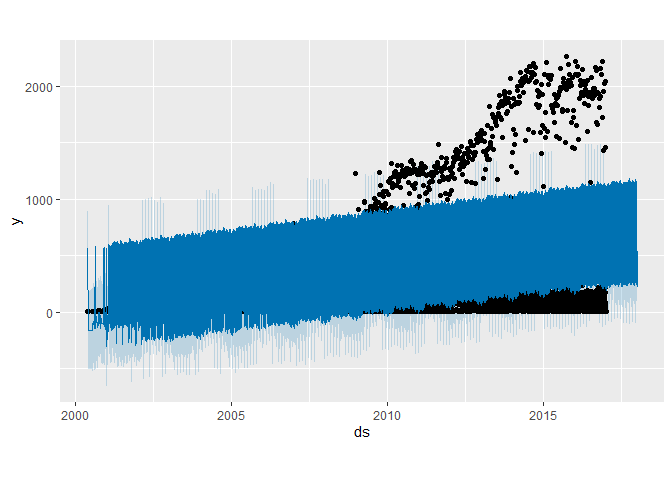
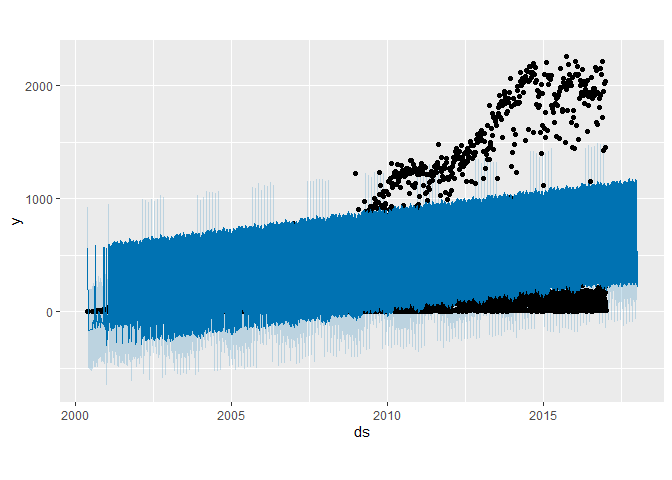
Update to summary stats

diff --git a/Assignments/Group Project/Group-Assignment.md b/Assignments/Group Project/Group-Assignment.md
@@ -22,7 +22,6 @@ First we need to load the basic packages for the manipulation of data.
 Other packages will be loaded as needed.
 
 ``` r
-#library(tidyverse)
 library(dplyr)
 ```
 
@@ -65,8 +64,17 @@ library(lubridate)
     ##     date, intersect, setdiff, union
 
 ``` r
-#library(tsibble)
 library(ggplot2)
+  
+#for first time use
+#install.packages('compareGroups')
+#install.packages('webr')
+#install.packages('prophet')
+#install.packages('survival')
+
+#archive
+#library(tsibble)
+#library(tidyverse)
 ```
 
 ### Load data
@@ -397,8 +405,6 @@ PD = T_Data %>%
     ## `.groups` argument.
 
 ``` r
-#install.packages('webr')
-
 library(webr)
 PieDonut(PD, aes(gender,race, count=n), title = "Patent Examiners by Race & Gender",r0 = 0.45, r1 = 0.9, addDonutLabel= TRUE )
 ```
@@ -500,12 +506,21 @@ are more applications in one year than another
 ``` r
 hists=ggplot(T_Data, aes(x=filing_year))+
   geom_histogram(bins = 30)+
-  facet_grid(T_Data$tc)+
-  ggtitle("Histogram of Application Length in Days.")
+  ggtitle("Histogram of Application filing year.")
 hists
 ```
 
-![](Group-Assignment_files/figure-gfm/histogram%20distribtion%20ethnicity%202-1.png)<!-- -->
+![](Group-Assignment_files/figure-gfm/histogram%20distribtion%20ethnicity%202-1-1.png)<!-- -->
+
+``` r
+hists=ggplot(T_Data, aes(x=filing_year))+
+  geom_histogram(bins = 30)+
+  facet_grid(T_Data$tc)+
+  ggtitle("Histogram of Application filing year.")
+hists
+```
+
+![](Group-Assignment_files/figure-gfm/histogram%20distribtion%20ethnicity%202-2-1.png)<!-- -->
 
 Similarly let’s look at the distribution of approval years
 
@@ -584,6 +599,8 @@ library(tidyverse)
     ## ✖ lubridate::union()       masks base::union()
 
 ``` r
+library(ggpubr)
+
 T_Data$race_gender=paste(T_Data$race,T_Data$gender)
 T_Data$race_gender=as.factor(T_Data$race_gender)
 
@@ -597,6 +614,13 @@ T_Data %>%
 
 ![](Group-Assignment_files/figure-gfm/Violin%20plots-1.png)<!-- -->
 
+``` r
+ggboxplot(T_Data, x= 'race_gender', y='Application_time',color='race_gender',xlab=FALSE,ylab="Application Time (in Days)")+
+  rotate_x_text(45)
+```
+
+![](Group-Assignment_files/figure-gfm/box%20plots-1.png)<!-- -->
+
 Based on the graphs we can see a similar pattern for application time,
 where all tcs have a steadliy decreasing application wait time. However,
 this is likely a right censoring problem as the applications that are
@@ -609,6 +633,50 @@ on the amount of time ofr a patent applcation.
 drop <- c("race_gender")
 T_Data = T_Data[,!(names(T_Data) %in% drop)]
 ```
+
+## Average Comparisons
+
+Let’s compare the averages between groups
+
+``` r
+t=t.test(Application_time ~ gender, data = T_Data, var.equal = FALSE)
+summary(t)
+```
+
+    ##             Length Class  Mode     
+    ## statistic   1      -none- numeric  
+    ## parameter   1      -none- numeric  
+    ## p.value     1      -none- numeric  
+    ## conf.int    2      -none- numeric  
+    ## estimate    2      -none- numeric  
+    ## null.value  1      -none- numeric  
+    ## stderr      1      -none- numeric  
+    ## alternative 1      -none- character
+    ## method      1      -none- character
+    ## data.name   1      -none- character
+
+``` r
+t=aov(Application_time ~ race, data = T_Data)
+summary(t)
+```
+
+    ##                  Df    Sum Sq  Mean Sq F value   Pr(>F)    
+    ## race              3 3.174e+07 10579703   10.86 3.98e-07 ***
+    ## Residuals   1363982 1.329e+12   974604                     
+    ## ---
+    ## Signif. codes:  0 '***' 0.001 '**' 0.01 '*' 0.05 '.' 0.1 ' ' 1
+
+``` r
+t=aov(Application_time ~ race+gender, data = T_Data)
+summary(t)
+```
+
+    ##                  Df    Sum Sq  Mean Sq F value   Pr(>F)    
+    ## race              3 3.174e+07 10579703  10.855 3.98e-07 ***
+    ## gender            1 1.810e+06  1809621   1.857    0.173    
+    ## Residuals   1363981 1.329e+12   974604                     
+    ## ---
+    ## Signif. codes:  0 '***' 0.001 '**' 0.01 '*' 0.05 '.' 0.1 ' ' 1
 
 ## PCA Analaysis
 
@@ -630,7 +698,6 @@ Let’s use the prophet package to predict the future of the filing number
 of applications
 
 ``` r
-#install.packages('prophet')
 library(prophet)
 ```
 
@@ -685,12 +752,12 @@ tail(forecast[c('ds', 'yhat', 'yhat_lower', 'yhat_upper')])
 ```
 
     ##                       ds      yhat yhat_lower yhat_upper
-    ## 5821 2017-12-26 19:00:00 1136.5869  817.74603  1473.2097
-    ## 5822 2017-12-27 19:00:00  443.6840   56.04380   813.0540
-    ## 5823 2017-12-28 19:00:00  455.3918   97.81820   807.5841
-    ## 5824 2017-12-29 19:00:00  274.3422  -88.26362   639.1719
-    ## 5825 2017-12-30 19:00:00  225.2376 -127.66719   586.9678
-    ## 5826 2017-12-31 19:00:00  533.0541  204.22284   876.7144
+    ## 5821 2017-12-26 19:00:00 1136.5869  785.78012  1467.6499
+    ## 5822 2017-12-27 19:00:00  443.6840   66.88709   782.1364
+    ## 5823 2017-12-28 19:00:00  455.3918  108.27581   801.9341
+    ## 5824 2017-12-29 19:00:00  274.3422  -77.78597   653.2509
+    ## 5825 2017-12-30 19:00:00  225.2376 -114.22725   584.5684
+    ## 5826 2017-12-31 19:00:00  533.0541  176.14621   866.8047
 
 ``` r
 plot(m, forecast)
@@ -1027,6 +1094,39 @@ MSE
 
 # Appendix
 
+## Descriptive Stats
+
+``` r
+library(compareGroups)
+res<-compareGroups(gender~Application_time, data=T_Data)
+res
+```
+
+    ## 
+    ## 
+    ## -------- Summary of results by groups of 'gender'---------
+    ## 
+    ## 
+    ##   var              N       p.value method            selection
+    ## 1 Application_time 1363986 0.096*  continuous normal ALL      
+    ## -----
+    ## Signif. codes:  0 '**' 0.05 '*' 0.1 ' ' 1
+
+``` r
+res<-compareGroups(race~Application_time, data=T_Data)
+res
+```
+
+    ## 
+    ## 
+    ## -------- Summary of results by groups of 'race'---------
+    ## 
+    ## 
+    ##   var              N       p.value  method            selection
+    ## 1 Application_time 1363986 <0.001** continuous normal ALL      
+    ## -----
+    ## Signif. codes:  0 '**' 0.05 '*' 0.1 ' ' 1
+
 ## Tree model Summary
 
 ``` r
@@ -1039,10 +1139,10 @@ summary(optimal_tree)
     ##   n= 1363986 
     ## 
     ##             CP nsplit rel error    xerror        xstd
-    ## 1 2.677460e-05      0 1.0000000 1.0000023 0.001992320
-    ## 2 1.797278e-05      3 0.9999197 0.9999293 0.001991761
-    ## 3 1.166076e-05      4 0.9999017 0.9999182 0.001991763
-    ## 4 1.000000e-05      5 0.9998900 0.9999111 0.001991740
+    ## 1 2.677460e-05      0 1.0000000 1.0000012 0.001992319
+    ## 2 1.797278e-05      3 0.9999197 0.9999273 0.001991757
+    ## 3 1.166076e-05      4 0.9999017 0.9999132 0.001991759
+    ## 4 1.000000e-05      5 0.9998900 0.9999042 0.001991728
     ## 
     ## Variable importance
     ##   race gender 
